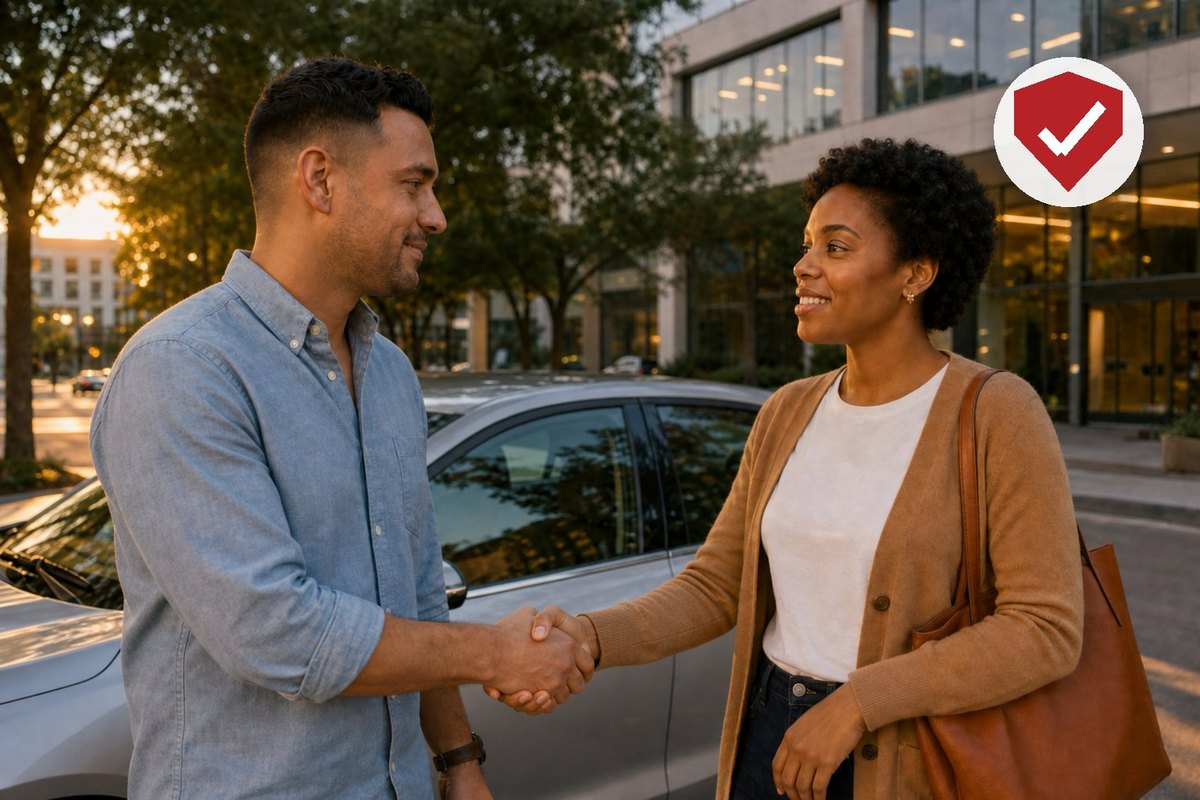
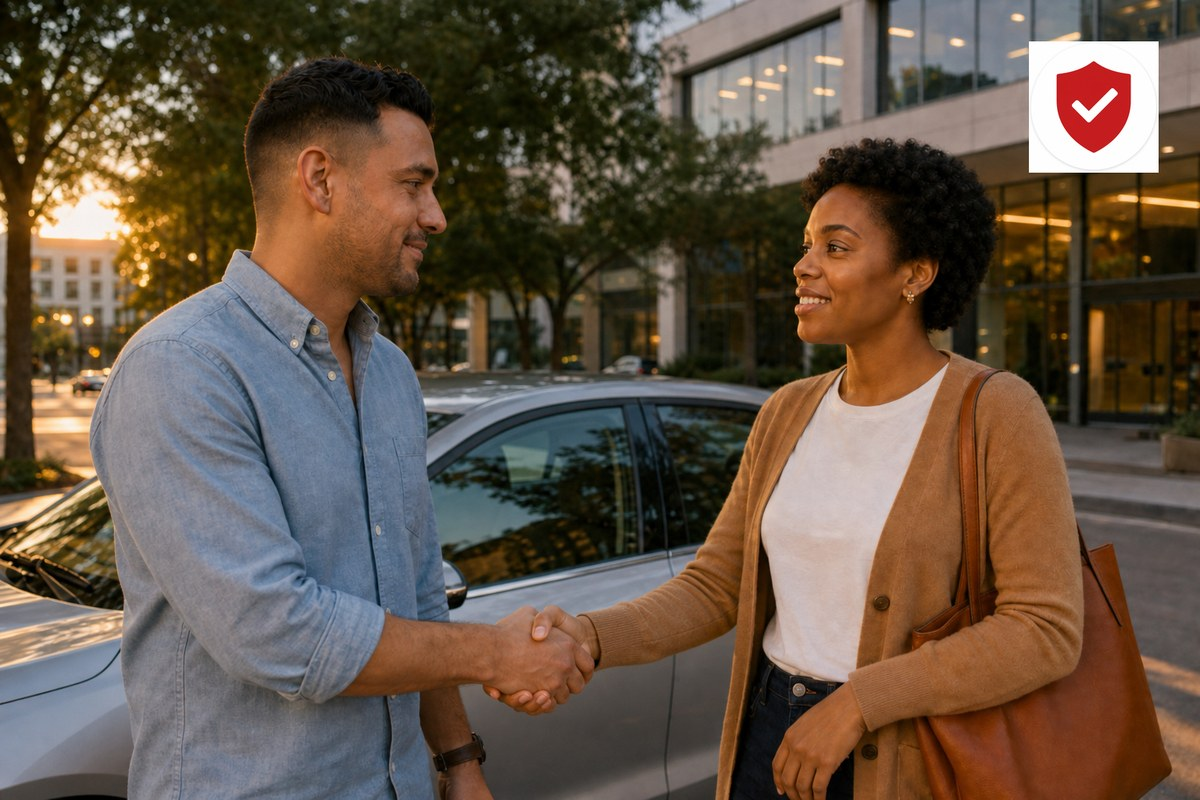
Fix safety shield badge and switch Convenience to the new Priya photo.
Replace the broken shield overlay with a clean top-right icon and use why-convenience_new as the card image.

Changed region(s): [[0.8017, 0.0312, 0.9867, 0.2812]]

diff --git a/index.html b/index.html
@@ -143,7 +143,7 @@
               <div class="promise__media">
                 <img
                   src="assets/photos/why-convenience.jpg"
-                  alt="Co-rider approaching a scheduled pickup where the driver is already waiting"
+                  alt="Rider booking a commute from home on her phone"
                   width="1200"
                   height="900"
                   loading="lazy"